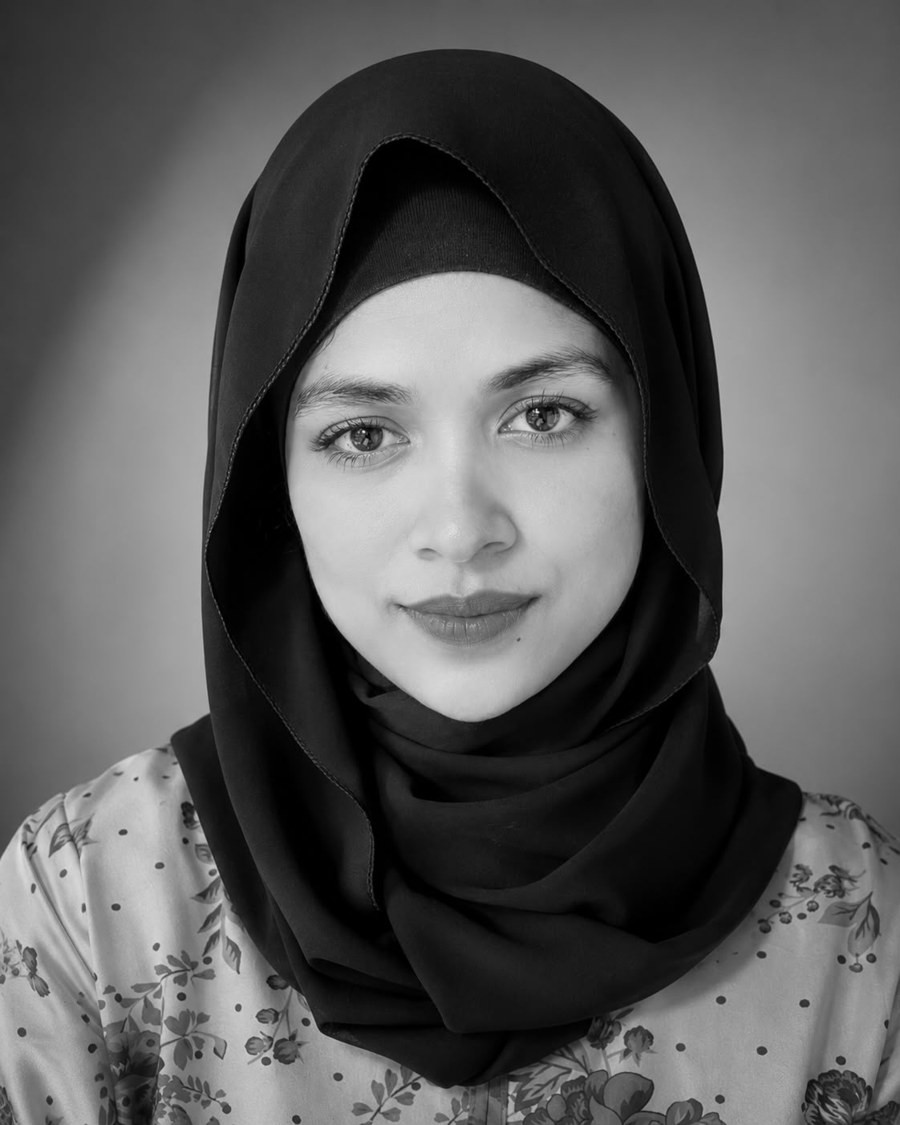
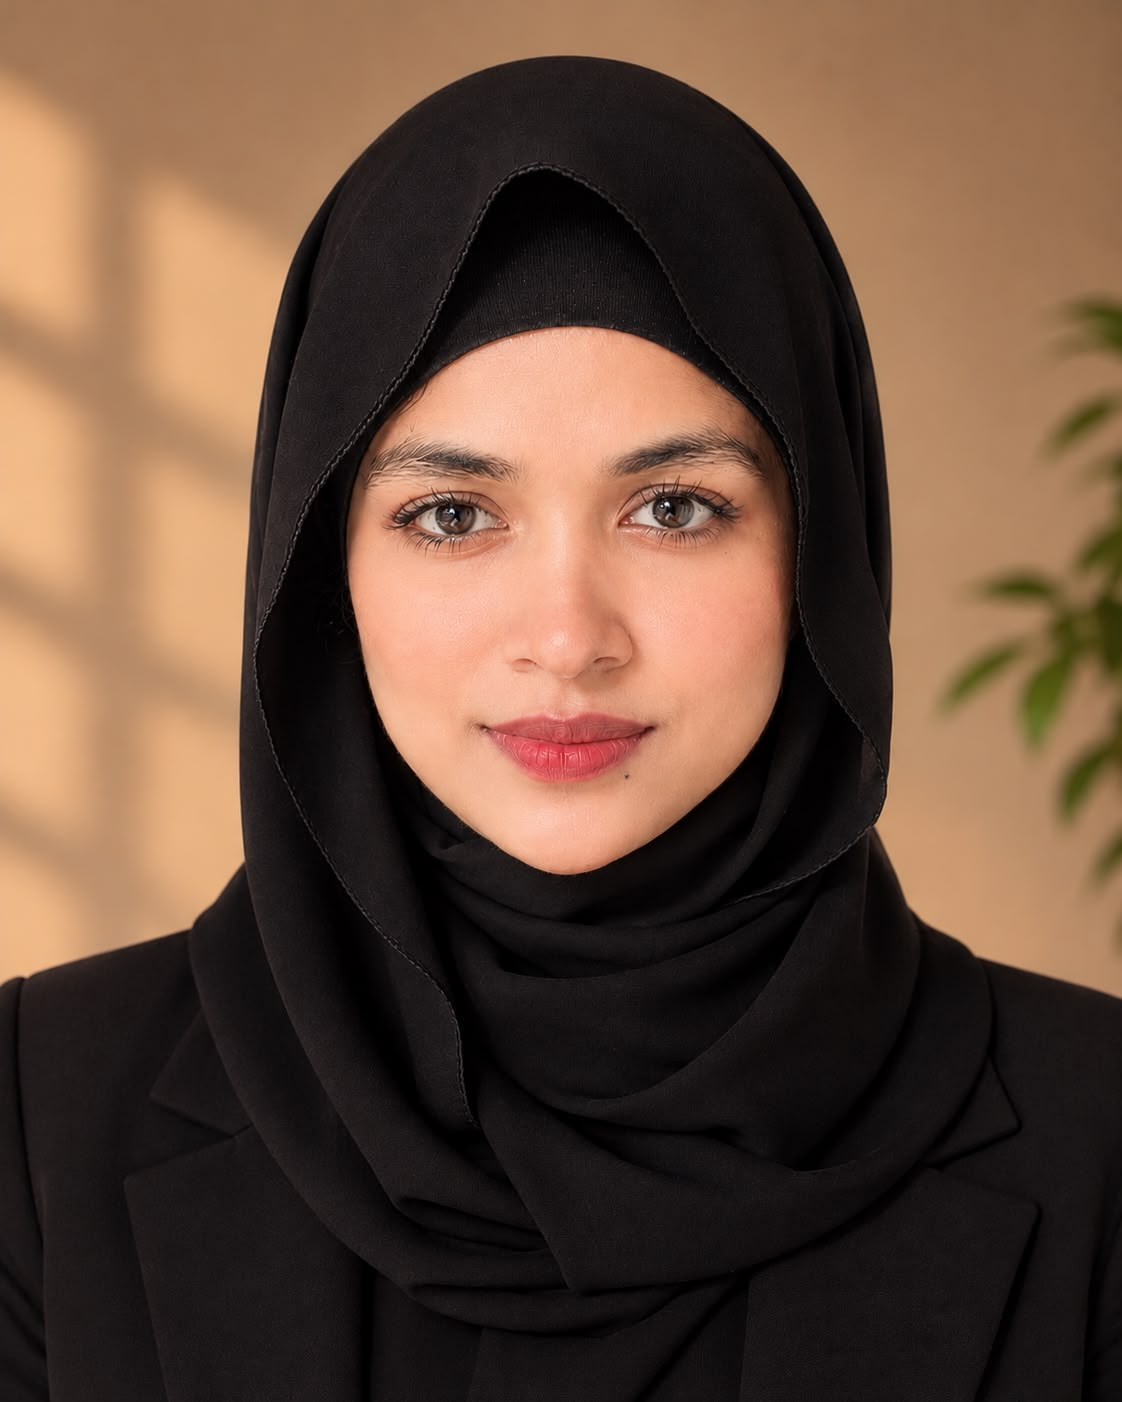
New colour portrait; drop grayscale filter
Claude-Session: https://claude.ai/code/session_01CcL7wFDHEa9dt9SNUbpBS5

diff --git a/about/index.html b/about/index.html
@@ -203,7 +203,6 @@ a.primary:hover{color:var(--signal)}
 .prose .body a:hover{text-decoration-color:var(--ink)}
 .prose .pill{margin-top:22px}
 @media (width<=1000px){.abt .lead,.abt .building{grid-column:1/-1}.abt .portrait{grid-area:auto/1/auto/span 6;grid-row:auto;order:3;margin-top:28px}.prose h2,.prose .body{grid-column:1/-1}.prose .body{margin-top:12px}}
-img[src*="portrait.jpg"]{filter:grayscale(1)}/* animated brand photo */
 @media (width<=1000px){.wordmark::before{width:34px;height:34px;margin-top:-17px}}
 .wordmark{position:relative}
 .brand-mark{border-radius:50%;animation:bm-bob 3.6s ease-in-out infinite;box-shadow:0 0 0 0 rgba(210,50,30,.45)}
@@ -289,7 +288,7 @@ a.copy{display:inline-block;margin-top:14px;text-decoration:none}
 <header class="site-head">
   <div class="frame head-row">
     <a class="wordmark" href="../" aria-label="Sonia Sultana Tulona, home">
-      <img class="brand-mark" src="../portrait.jpg?v=bw" width="40" height="40" alt="">
+      <img class="brand-mark" src="../portrait.jpg?v=color" width="40" height="40" alt="">
       <b>Tulona<span class="brand-dot">.</span></b>
     </a>
     <nav class="nav" aria-label="Sections">
@@ -323,7 +322,7 @@ a.copy{display:inline-block;margin-top:14px;text-decoration:none}
 
   <section class="sb">
     <aside class="sb-l">
-      <figure class="portrait"><img src="../portrait.jpg?v=bw" width="900" height="1125" alt="Portrait of Sonia Sultana Tulona"><figcaption>Sonia Sultana Tulona</figcaption></figure>
+      <figure class="portrait"><img src="../portrait.jpg?v=color" width="900" height="1125" alt="Portrait of Sonia Sultana Tulona"><figcaption>Sonia Sultana Tulona</figcaption></figure>
       <div class="off"><p class="me-k">Off the clock</p><ul><li>Traveling</li><li>Lifting</li><li>Reading</li><li>Planning</li><li>Snack hunting</li><li>Side questing</li></ul></div>
     </aside>
     <div class="sb-r">

diff --git a/index.html b/index.html
@@ -214,7 +214,6 @@ a.primary:hover{color:var(--signal)}
 .post .close{border-top:1px solid var(--line);margin-top:44px;padding-top:22px;font:400 19px/1.5 var(--serif);color:var(--ink)}
 @media (width<=1000px){.jr .co-name,.jr .co-what{grid-column:7/-1}.jr .co-go{display:none}}
 @media (width<=680px){.jr .co-name,.jr .co-what{grid-column:1/-1}}
-img[src*="portrait.jpg"]{filter:grayscale(1)}/* animated brand photo */
 @media (width<=1000px){.wordmark::before{width:34px;height:34px;margin-top:-17px}}
 .wordmark{position:relative}
 .brand-mark{border-radius:50%;animation:bm-bob 3.6s ease-in-out infinite;box-shadow:0 0 0 0 rgba(210,50,30,.45)}
@@ -293,7 +292,7 @@ a.banner:hover svg.sk{transform:translateY(-50%) rotate(-3deg)}
 <header class="site-head">
   <div class="frame head-row">
     <a class="wordmark" href="#top" aria-label="Sonia Sultana Tulona, home">
-      <img class="brand-mark" src="portrait.jpg?v=bw" width="40" height="40" alt="">
+      <img class="brand-mark" src="portrait.jpg?v=color" width="40" height="40" alt="">
       <b>Tulona<span class="brand-dot">.</span></b>
     </a>
     <nav class="nav" aria-label="Sections">
@@ -319,7 +318,7 @@ a.banner:hover svg.sk{transform:translateY(-50%) rotate(-3deg)}
     <p class="hero-kicker"><span class="hero-rule"></span>Client Success &amp; Partnership</p>
     <h1 class="statement"><span>I get good products</span><span>in front of the</span><span>right people.</span></h1>
     <figure class="portrait">
-      <img src="portrait.jpg?v=bw" width="900" height="900" alt="Portrait of Sonia Sultana Tulona" fetchpriority="high">
+      <img src="portrait.jpg?v=color" width="900" height="900" alt="Portrait of Sonia Sultana Tulona" fetchpriority="high">
       <figcaption><span>Sonia Sultana Tulona</span><span>Communication Specialist</span></figcaption>
     </figure>
     <div class="hero-foot">

diff --git a/journal/a-good-word-is-charity/index.html b/journal/a-good-word-is-charity/index.html
@@ -208,7 +208,6 @@ a.primary:hover{color:var(--signal)}
 .post .close{border-top:1px solid var(--line);margin-top:44px;padding-top:22px;font:400 19px/1.5 var(--serif);color:var(--ink)}
 @media (width<=1000px){.jr .co-name,.jr .co-what{grid-column:7/-1}.jr .co-go{display:none}}
 @media (width<=680px){.jr .co-name,.jr .co-what{grid-column:1/-1}}
-img[src*="portrait.jpg"]{filter:grayscale(1)}/* animated brand photo */
 @media (width<=1000px){.wordmark::before{width:34px;height:34px;margin-top:-17px}}
 .wordmark{position:relative}
 .brand-mark{border-radius:50%;animation:bm-bob 3.6s ease-in-out infinite;box-shadow:0 0 0 0 rgba(210,50,30,.45)}
@@ -282,7 +281,7 @@ a.banner:hover svg.sk{transform:translateY(-50%) rotate(-3deg)}
 <header class="site-head">
   <div class="frame head-row">
     <a class="wordmark" href="../../" aria-label="Sonia Sultana Tulona, home">
-      <img class="brand-mark" src="../../portrait.jpg?v=bw" width="40" height="40" alt="">
+      <img class="brand-mark" src="../../portrait.jpg?v=color" width="40" height="40" alt="">
       <b>Tulona<span class="brand-dot">.</span></b>
     </a>
     <nav class="nav" aria-label="Sections">

diff --git a/journal/intention-before-action/index.html b/journal/intention-before-action/index.html
@@ -208,7 +208,6 @@ a.primary:hover{color:var(--signal)}
 .post .close{border-top:1px solid var(--line);margin-top:44px;padding-top:22px;font:400 19px/1.5 var(--serif);color:var(--ink)}
 @media (width<=1000px){.jr .co-name,.jr .co-what{grid-column:7/-1}.jr .co-go{display:none}}
 @media (width<=680px){.jr .co-name,.jr .co-what{grid-column:1/-1}}
-img[src*="portrait.jpg"]{filter:grayscale(1)}/* animated brand photo */
 @media (width<=1000px){.wordmark::before{width:34px;height:34px;margin-top:-17px}}
 .wordmark{position:relative}
 .brand-mark{border-radius:50%;animation:bm-bob 3.6s ease-in-out infinite;box-shadow:0 0 0 0 rgba(210,50,30,.45)}
@@ -282,7 +281,7 @@ a.banner:hover svg.sk{transform:translateY(-50%) rotate(-3deg)}
 <header class="site-head">
   <div class="frame head-row">
     <a class="wordmark" href="../../" aria-label="Sonia Sultana Tulona, home">
-      <img class="brand-mark" src="../../portrait.jpg?v=bw" width="40" height="40" alt="">
+      <img class="brand-mark" src="../../portrait.jpg?v=color" width="40" height="40" alt="">
       <b>Tulona<span class="brand-dot">.</span></b>
     </a>
     <nav class="nav" aria-label="Sections">

diff --git a/journal/love-for-your-brother/index.html b/journal/love-for-your-brother/index.html
@@ -208,7 +208,6 @@ a.primary:hover{color:var(--signal)}
 .post .close{border-top:1px solid var(--line);margin-top:44px;padding-top:22px;font:400 19px/1.5 var(--serif);color:var(--ink)}
 @media (width<=1000px){.jr .co-name,.jr .co-what{grid-column:7/-1}.jr .co-go{display:none}}
 @media (width<=680px){.jr .co-name,.jr .co-what{grid-column:1/-1}}
-img[src*="portrait.jpg"]{filter:grayscale(1)}/* animated brand photo */
 @media (width<=1000px){.wordmark::before{width:34px;height:34px;margin-top:-17px}}
 .wordmark{position:relative}
 .brand-mark{border-radius:50%;animation:bm-bob 3.6s ease-in-out infinite;box-shadow:0 0 0 0 rgba(210,50,30,.45)}
@@ -282,7 +281,7 @@ a.banner:hover svg.sk{transform:translateY(-50%) rotate(-3deg)}
 <header class="site-head">
   <div class="frame head-row">
     <a class="wordmark" href="../../" aria-label="Sonia Sultana Tulona, home">
-      <img class="brand-mark" src="../../portrait.jpg?v=bw" width="40" height="40" alt="">
+      <img class="brand-mark" src="../../portrait.jpg?v=color" width="40" height="40" alt="">
       <b>Tulona<span class="brand-dot">.</span></b>
     </a>
     <nav class="nav" aria-label="Sections">

diff --git a/journal/the-honest-merchant/index.html b/journal/the-honest-merchant/index.html
@@ -208,7 +208,6 @@ a.primary:hover{color:var(--signal)}
 .post .close{border-top:1px solid var(--line);margin-top:44px;padding-top:22px;font:400 19px/1.5 var(--serif);color:var(--ink)}
 @media (width<=1000px){.jr .co-name,.jr .co-what{grid-column:7/-1}.jr .co-go{display:none}}
 @media (width<=680px){.jr .co-name,.jr .co-what{grid-column:1/-1}}
-img[src*="portrait.jpg"]{filter:grayscale(1)}/* animated brand photo */
 @media (width<=1000px){.wordmark::before{width:34px;height:34px;margin-top:-17px}}
 .wordmark{position:relative}
 .brand-mark{border-radius:50%;animation:bm-bob 3.6s ease-in-out infinite;box-shadow:0 0 0 0 rgba(210,50,30,.45)}
@@ -282,7 +281,7 @@ a.banner:hover svg.sk{transform:translateY(-50%) rotate(-3deg)}
 <header class="site-head">
   <div class="frame head-row">
     <a class="wordmark" href="../../" aria-label="Sonia Sultana Tulona, home">
-      <img class="brand-mark" src="../../portrait.jpg?v=bw" width="40" height="40" alt="">
+      <img class="brand-mark" src="../../portrait.jpg?v=color" width="40" height="40" alt="">
       <b>Tulona<span class="brand-dot">.</span></b>
     </a>
     <nav class="nav" aria-label="Sections">

diff --git a/journal/tie-your-camel/index.html b/journal/tie-your-camel/index.html
@@ -208,7 +208,6 @@ a.primary:hover{color:var(--signal)}
 .post .close{border-top:1px solid var(--line);margin-top:44px;padding-top:22px;font:400 19px/1.5 var(--serif);color:var(--ink)}
 @media (width<=1000px){.jr .co-name,.jr .co-what{grid-column:7/-1}.jr .co-go{display:none}}
 @media (width<=680px){.jr .co-name,.jr .co-what{grid-column:1/-1}}
-img[src*="portrait.jpg"]{filter:grayscale(1)}/* animated brand photo */
 @media (width<=1000px){.wordmark::before{width:34px;height:34px;margin-top:-17px}}
 .wordmark{position:relative}
 .brand-mark{border-radius:50%;animation:bm-bob 3.6s ease-in-out infinite;box-shadow:0 0 0 0 rgba(210,50,30,.45)}
@@ -282,7 +281,7 @@ a.banner:hover svg.sk{transform:translateY(-50%) rotate(-3deg)}
 <header class="site-head">
   <div class="frame head-row">
     <a class="wordmark" href="../../" aria-label="Sonia Sultana Tulona, home">
-      <img class="brand-mark" src="../../portrait.jpg?v=bw" width="40" height="40" alt="">
+      <img class="brand-mark" src="../../portrait.jpg?v=color" width="40" height="40" alt="">
       <b>Tulona<span class="brand-dot">.</span></b>
     </a>
     <nav class="nav" aria-label="Sections">

diff --git a/journal/index.html b/journal/index.html
@@ -208,7 +208,6 @@ a.primary:hover{color:var(--signal)}
 .post .close{border-top:1px solid var(--line);margin-top:44px;padding-top:22px;font:400 19px/1.5 var(--serif);color:var(--ink)}
 @media (width<=1000px){.jr .co-name,.jr .co-what{grid-column:7/-1}.jr .co-go{display:none}}
 @media (width<=680px){.jr .co-name,.jr .co-what{grid-column:1/-1}}
-img[src*="portrait.jpg"]{filter:grayscale(1)}/* animated brand photo */
 @media (width<=1000px){.wordmark::before{width:34px;height:34px;margin-top:-17px}}
 .wordmark{position:relative}
 .brand-mark{border-radius:50%;animation:bm-bob 3.6s ease-in-out infinite;box-shadow:0 0 0 0 rgba(210,50,30,.45)}
@@ -285,7 +284,7 @@ a.banner:hover svg.sk{transform:translateY(-50%) rotate(-3deg)}
 <header class="site-head">
   <div class="frame head-row">
     <a class="wordmark" href="../" aria-label="Sonia Sultana Tulona, home">
-      <img class="brand-mark" src="../portrait.jpg?v=bw" width="40" height="40" alt="">
+      <img class="brand-mark" src="../portrait.jpg?v=color" width="40" height="40" alt="">
       <b>Tulona<span class="brand-dot">.</span></b>
     </a>
     <nav class="nav" aria-label="Sections">

diff --git a/brands/index.html b/brands/index.html
@@ -251,7 +251,6 @@ a.primary:hover{color:var(--signal)}
 .bc-foot a{color:var(--ink);font-weight:500}
 .bc-foot a:hover{color:var(--signal)}
 @media (width<=1000px){.bcard .l,.bcard .m,.bcard .r{grid-column:1/-1}}
-img[src*="portrait.jpg"]{filter:grayscale(1)}/* animated brand photo */
 @media (width<=1000px){.wordmark::before{width:34px;height:34px;margin-top:-17px}}
 .wordmark{position:relative}
 .brand-mark{border-radius:50%;animation:bm-bob 3.6s ease-in-out infinite;box-shadow:0 0 0 0 rgba(210,50,30,.45)}
@@ -306,7 +305,7 @@ a.copy{display:inline-block;margin-top:14px;text-decoration:none}
 <header class="site-head">
   <div class="frame head-row">
     <a class="wordmark" href="../" aria-label="Sonia Sultana Tulona, home">
-      <img class="brand-mark" src="../portrait.jpg?v=bw" width="40" height="40" alt="">
+      <img class="brand-mark" src="../portrait.jpg?v=color" width="40" height="40" alt="">
       <b>Tulona<span class="brand-dot">.</span></b>
     </a>
     <nav class="nav" aria-label="Sections">

diff --git a/work/index.html b/work/index.html
@@ -242,7 +242,6 @@ a.primary:hover{color:var(--signal)}
 @media (width<=1000px){.dense .co-what.wide{grid-column:7/-1}}
 @media (width<=680px){.dense .co-what.wide{grid-column:1/-1}}
 
-img[src*="portrait.jpg"]{filter:grayscale(1)}/* animated brand photo */
 @media (width<=1000px){.wordmark::before{width:34px;height:34px;margin-top:-17px}}
 .wordmark{position:relative}
 .brand-mark{border-radius:50%;animation:bm-bob 3.6s ease-in-out infinite;box-shadow:0 0 0 0 rgba(210,50,30,.45)}
@@ -297,7 +296,7 @@ a.copy{display:inline-block;margin-top:14px;text-decoration:none}
 <header class="site-head">
   <div class="frame head-row">
     <a class="wordmark" href="../" aria-label="Sonia Sultana Tulona, home">
-      <img class="brand-mark" src="../portrait.jpg?v=bw" width="40" height="40" alt="">
+      <img class="brand-mark" src="../portrait.jpg?v=color" width="40" height="40" alt="">
       <b>Tulona<span class="brand-dot">.</span></b>
     </a>
     <nav class="nav" aria-label="Sections">
